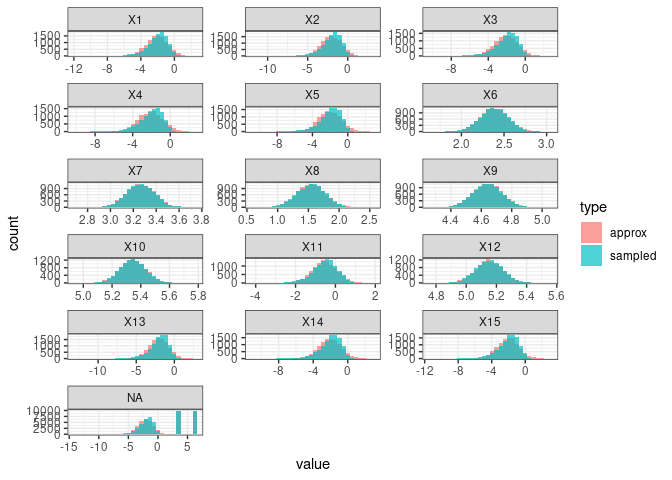
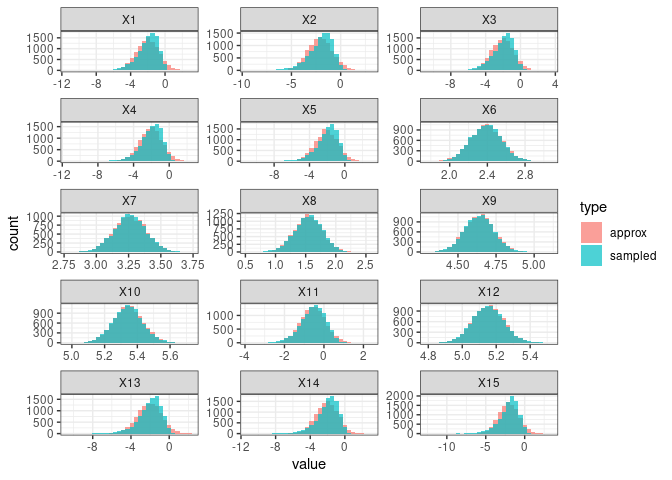
update

diff --git a/README.md b/README.md
@@ -34,7 +34,7 @@ knitr::kable(t(data.frame("observed" =
 
 |              |      mean |        sd |
 |:-------------|----------:|----------:|
-| observed     | -8.646344 | 0.0863698 |
+| observed     | -8.645710 | 0.0865270 |
 | approximated | -8.645706 | 0.0859221 |
 
 ``` r
@@ -69,7 +69,8 @@ b = sampleCLRApprox(samples = 10000, data) %>%
 #Notice that the zero-count features such as X13 have a much higher spread than high rollers like X7
 
 rbind(a, b) %>%
-  
+  filter(name %in% paste0("X", 1:15)) %>%
+
   mutate(name = factor(name, levels = paste0("X", 1:15))) %>%
 
   ggplot() +
